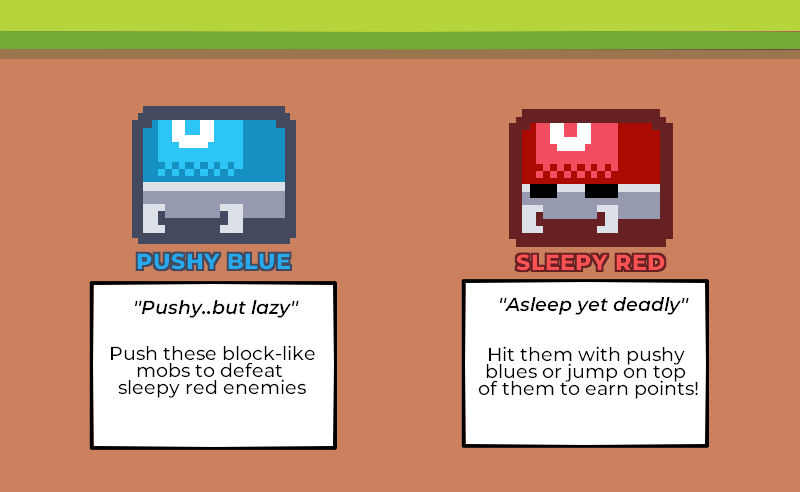
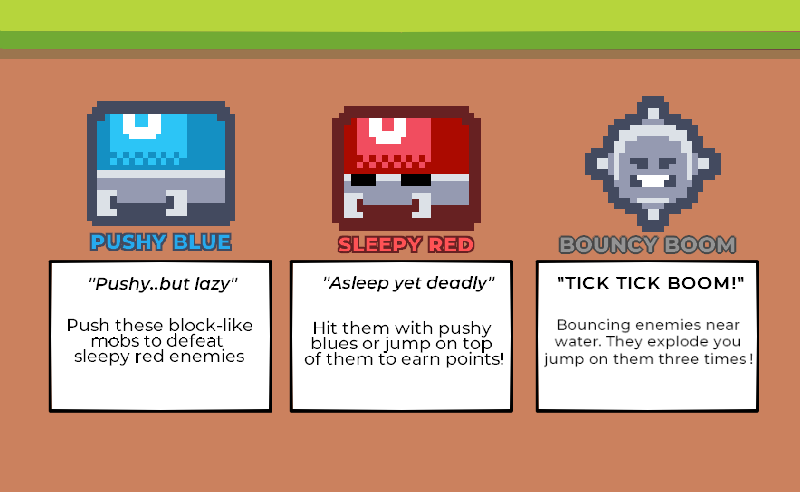
Modified scenes and added a new enemy
- Added new enemy for Stage 2
- Updated instructions in InstructionScene
- Updated TitleScene background image

diff --git a/scripts/scenes/s2-Scenes/s2GameScenes.js b/scripts/scenes/s2-Scenes/s2GameScenes.js
@@ -13,6 +13,9 @@ export default class s1GameScene extends Phaser.Scene {
         this.score = 0;
         this.pMobs;
         this.gEnemies;
+        this.boomCounter = 1;
+        this.scale = 1;
+        this.bEnemies;
     }
 
     preload(){
@@ -24,6 +27,7 @@ export default class s1GameScene extends Phaser.Scene {
         this.load.image('coin', './assets/images/coin.png');
         this.load.image('push-mobs', './assets/images/push-mobs.png');
         this.load.image('ground-enemies', './assets/images/ground-enemies.png');
+        this.load.image('bounce-enemies', './assets/images/bounce-enemies.png');
         this.load.spritesheet('dude', './assets/images/dude.png', {frameWidth: 32, frameHeight: 48});
     }
 
@@ -83,6 +87,20 @@ export default class s1GameScene extends Phaser.Scene {
             obj.body.height = object.height;
         });
 
+        // Bounce Enemies
+        this.enemyBounce = this.map.getObjectLayer('bounce enemies')['objects'];
+        
+        this.bEnemies = this.physics.add.group();
+        this.enemyBounce.forEach(object => {
+            let obj = this.bEnemies.create(object.x, object.y, "bounce-enemies");
+            obj.setScale(object.width/16, object.height/16); 
+            obj.setOrigin(0); 
+            obj.setBounce(1);
+            obj.setImmovable([true]); 
+            obj.body.width = object.width; 
+            obj.body.height = object.height;
+        });
+
         // Push Mobs
         this.pushMobs = this.map.getObjectLayer('push mobs')['objects'];
         
@@ -129,6 +147,7 @@ export default class s1GameScene extends Phaser.Scene {
         this.physics.add.collider(this.player, this.platform);
         this.physics.add.collider(this.player, this.pMobs);
         this.physics.add.collider(this.gEnemies, this.platform);
+        this.physics.add.collider(this.bEnemies, this.water);
         this.physics.add.collider(this.pMobs, this.platform);
 
         this.physics.add.overlap(this.player, this.coins, this.collectCoins, null, this);
@@ -138,6 +157,7 @@ export default class s1GameScene extends Phaser.Scene {
         // Lose Conditions - If player collides with red enemies/water
         this.physics.add.collider(this.player, this.water, this.gameOver, null, this);
         this.physics.add.collider(this.player, this.gEnemies, this.hitEnemy, null, this);
+        this.physics.add.collider(this.player, this.bEnemies, this.hitEnemyBounce, null, this);
 
         // Win Conditions - If player collides with the flag at the end of the map
         this.physics.add.collider(this.player, this.flag, this.clear, null, this);
@@ -184,7 +204,7 @@ export default class s1GameScene extends Phaser.Scene {
             this.coinCounter = 0;
         }
 
-        if(this.coinsScore==47){
+        if(this.coinsScore==48){
             this.score+=1000
             this.scoreText.setText(`Score: ${this.score}`);
         }
@@ -255,6 +275,36 @@ export default class s1GameScene extends Phaser.Scene {
     removeIFrame(){
         this.player.clearTint()
         this.player.invulnerable = false;
+    }
+
+    // For Bouncing Enemies
+    hitEnemyBounce(player, bEnemies){
+
+        player.setVelocityY(-450)
+
+        if(this.boomCounter != 3 && bEnemies.body.touching.up){
+            this.scale+=0.5
+            bEnemies.setScale(this.scale);
+            this.boomCounter++;
+        }
+
+        else if (this.boomCounter == 3){
+            this.tweens.add({
+                targets: bEnemies,
+                alpha: 0.3,
+                scaleX: 1.5,
+                scaleY: 1.5,
+                ease: 'Linear',
+                duration: 200,
+                onComplete: function() {
+                    bEnemies.destroy(bEnemies.x, bEnemies.y);
+                },
+            });
+
+            this.score+=150
+            this.scoreText.setText(`Score: ${this.score}`);
+            this.boomCounter = 0;
+        }
     }
 
     hitMob (pMobs, gEnemies){

diff --git a/scripts/main.js b/scripts/main.js
@@ -10,6 +10,7 @@ import s2GameScene from './scenes/s2-Scenes/s2GameScenes.js'
 import s2GameOverScene from './scenes/s2-scenes/s2GameOverScene.js'
 import s2StageClearScene from './scenes/s2-Scenes/s2StageClearScene.js'
 
+//Load Scenes
 let titleScene = new TitleScene();
 let instructionScene = new InstructionScene();
 let selectScene = new SelectScene();
@@ -52,4 +53,3 @@ game.scene.add('s2StageClearScene', s2stageClearScene);
 
 // Starting Scene
 game.scene.start('TitleScene');
-// game.scene.start('s2GameScene');

diff --git a/scripts/scenes/TitleScene.js b/scripts/scenes/TitleScene.js
@@ -4,7 +4,13 @@ export default class TitleScene extends Phaser.Scene{
         super("TitleScene")
     }
 
+    preload(){
+        this.load.image('bg', './assets/images/title-bg.png')
+    }
+
     create(){
+
+        this.add.image(400, 280,'bg');
 
         let playText = this.add.text(220, 160, `PLAY GAME`, {
             fontFamily:'Montserrat',
